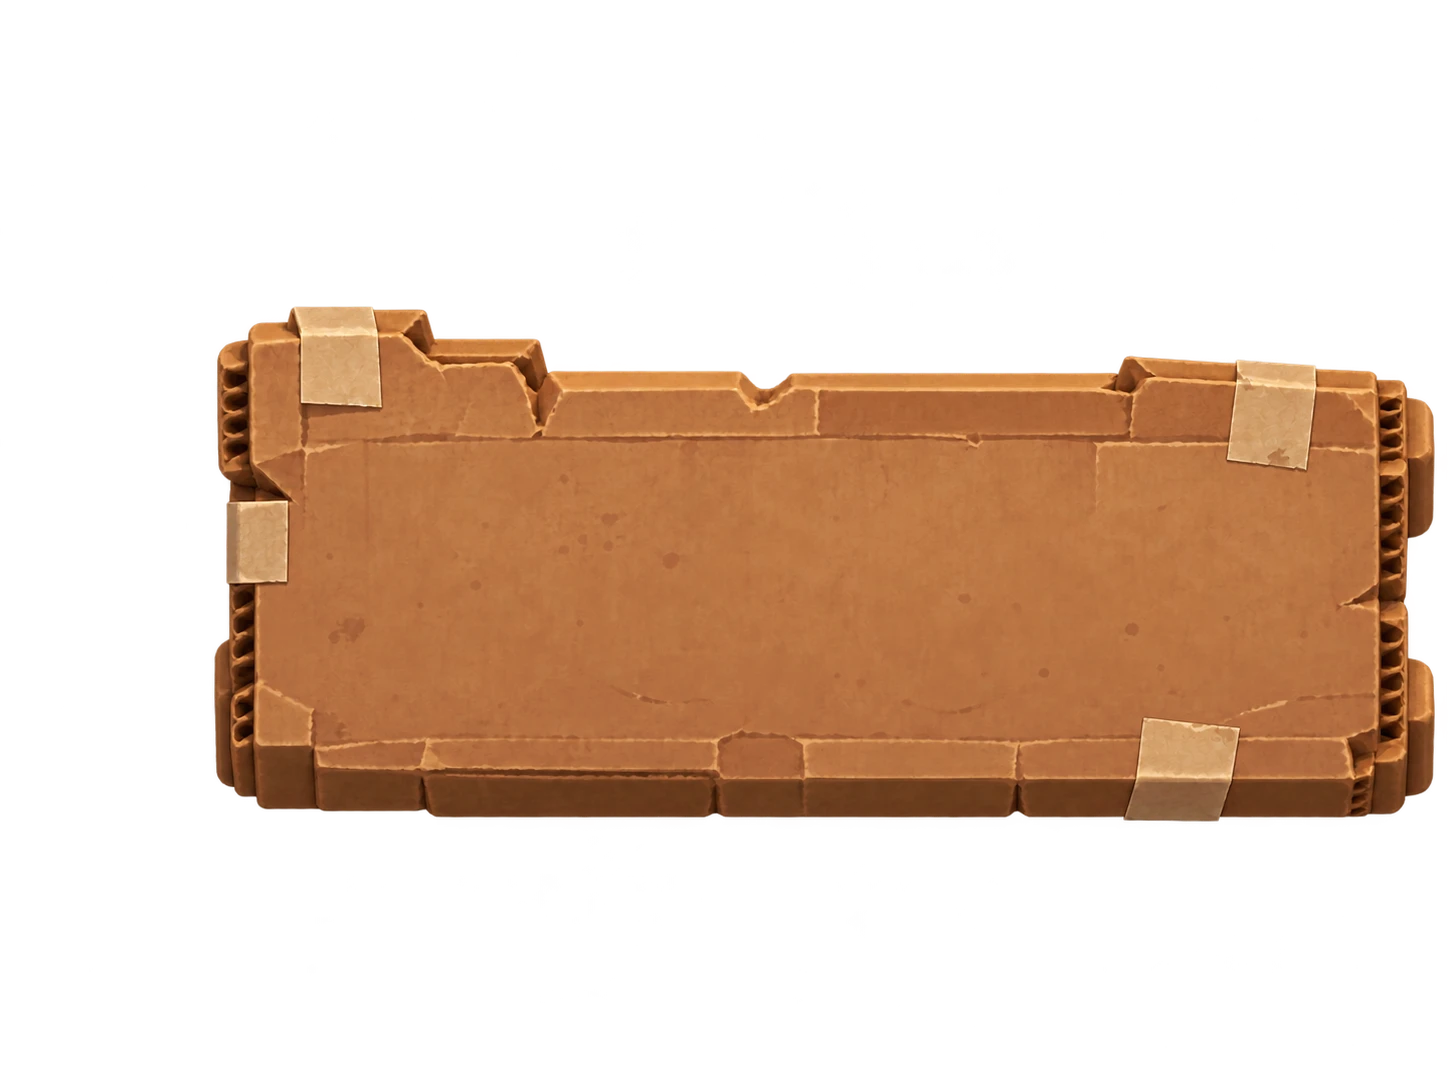
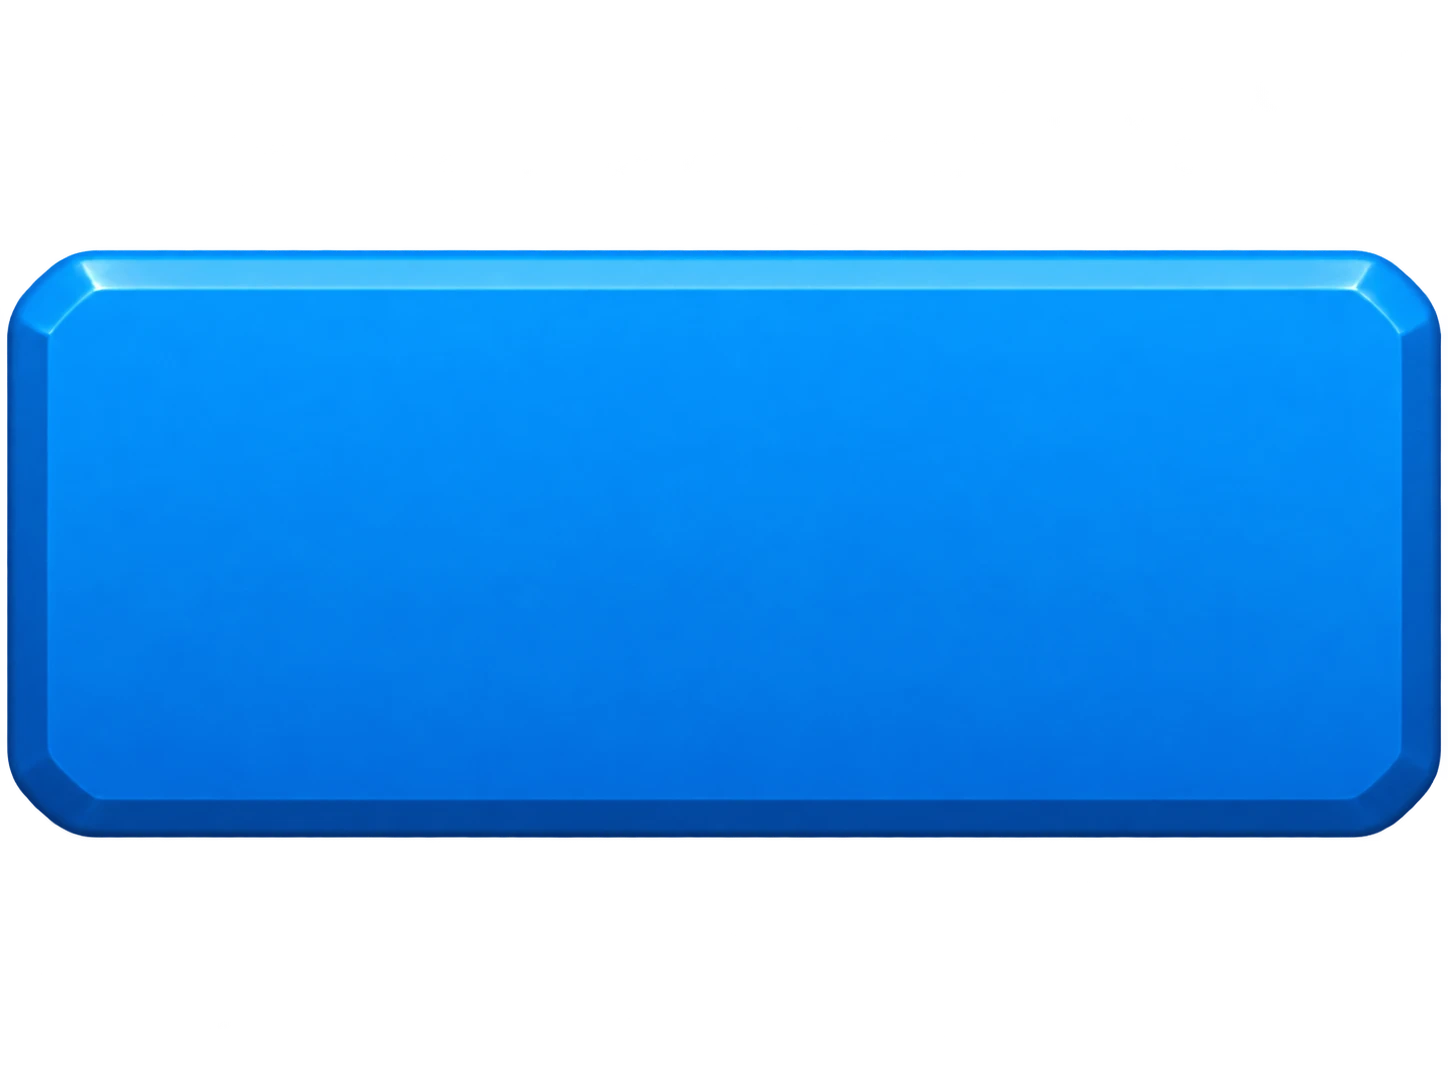
feat(hud): your blue plate behind the cards in hand, replacing the cardboard
Claude-Session: https://claude.ai/code/session_01Vpde5vHZTWw1h4wGUTJzwu

diff --git a/docs/GDD.md b/docs/GDD.md
@@ -36,7 +36,7 @@ The match is the Filipino street game of tagging the enemy base, like the refere
 - Numbers and toggles in `data/rules/game_rules.tres` (`rescue_frees_all`, `dummy_release_time`); box size and place in `data/rules/map_layout.tres` (`jail_size`, `jail_inset`).
 
 ## Controls: tap to move, cards to cast (owner, 2026-10-24)
-- **Hand layout (owner, like Clash Royale's bottom):** the four cards sit on the owner's **cardboard plate** (`assets/ui/hand/hand_plate.webp`) along the bottom, from the screen's right edge to a **column beside it** (116 px), with the ice water bar across under the cards: **the bag overlaps the bar's start, the whole points in big letters just right of it and "Max: 10" under them, its middle level with the bar's bottom outline**. **The three bars (health, stamina, ice water) are rounded rectangles, not pills** (`UiSkin.bar_radius`: a quarter of the bar's height, at most 8 px). **Empty is a flat colour:** dark gray for health and stamina, dark blue for ice water (no sheen or texture). **Outlines are thin** (2 px). **Colours make sense:** health is green (yours), **stamina is blue** (amber when low, red when you run out), **ice water is blue** (a full bar gets a light ice-blue edge, not gold). **The health number** is tiny (`UiMetrics.WORLD_SMALL`, 12 px) and sits at the bar's top left, its middle level with the middle of the bar's top outline. **The stamina bar touches the health bar with no gap** (they share the line between them). "Max: 10" is small (`UiMetrics.WORLD`, 18 px, below the 22 px reading floor on purpose: they are glanced at); "Max: 10" is clearly smaller than the ice water counter (26 px). **The ice water bar fills one segment at a time:** whole points are solid ice water, and the segment that is filling shows its progress in see-through white, like Clash Royale's (like the reference). **Card look (owner, copied from the reference):** a black outline and, just inside it, **one connected polished gloss band** (white along the top, flowing round the smooth top right corner into gray down the right side, then round the bottom right corner into light gray along the bottom, with a soft glow under it and a thin shine on the top right curve; the corners are `RADIUS_M` so the band curves with them); the card's background is its weapon kind's colour; **the ratio is the reference's, height 1.26 times the width** (`CARD_ASPECT`). **The cardboard runs off the screen's right and bottom edges** (its thick sides are cut off, so it looks flat there). **The cards have no names** (the Book has them): the round art fills the card and the **ice water cost sits on its bottom edge, in the middle** (a greyed bag while the bar has not reached it). There is **no health in the tray** (your health is over your kid). **Ice water is shown as the owner's bag picture** (`ice_water.webp`) on every card's cost and at the left end of the bar (no drop). **The column beside the cardboard** (at the left; at the right when left-handed), over the edge of the street, holds the **quick chat button** (online only: no button in offline practice, there is nobody to talk to) (the owner's speech bubble, `chat.webp`) with the **NEXT** label (white with a black outline) and card under it. **Quick chat:** a tap on the button opens a list of six short phrases (*Good luck!*, *Nice one!*, *Oops!*, *Thanks!*, *Help me!*, *Wow!*); picking one shows it in a white bubble over your kid for 2.6 s. Nothing is typed. **Not done yet:** other players do not see your phrase online (it needs a message in the online protocol); today it shows on your own screen only. While you wait in the box the hand, NEXT and the chat button are hidden and the cardboard runs the whole width.
+- **Hand layout (owner, like Clash Royale's bottom):** the four cards sit on the owner's **blue plate** (`assets/ui/hand/hand_plate.webp`) along the bottom, from the screen's right edge to a **column beside it** (116 px), with the ice water bar across under the cards: **the bag overlaps the bar's start, the whole points in big letters just right of it and "Max: 10" under them, its middle level with the bar's bottom outline**. **The three bars (health, stamina, ice water) are rounded rectangles, not pills** (`UiSkin.bar_radius`: a quarter of the bar's height, at most 8 px). **Empty is a flat colour:** dark gray for health and stamina, dark blue for ice water (no sheen or texture). **Outlines are thin** (2 px). **Colours make sense:** health is green (yours), **stamina is blue** (amber when low, red when you run out), **ice water is blue** (a full bar gets a light ice-blue edge, not gold). **The health number** is tiny (`UiMetrics.WORLD_SMALL`, 12 px) and sits at the bar's top left, its middle level with the middle of the bar's top outline. **The stamina bar touches the health bar with no gap** (they share the line between them). "Max: 10" is small (`UiMetrics.WORLD`, 18 px, below the 22 px reading floor on purpose: they are glanced at); "Max: 10" is clearly smaller than the ice water counter (26 px). **The ice water bar fills one segment at a time:** whole points are solid ice water, and the segment that is filling shows its progress in see-through white, like Clash Royale's (like the reference). **Card look (owner, copied from the reference):** a black outline and, just inside it, **one connected polished gloss band** (white along the top, flowing round the smooth top right corner into gray down the right side, then round the bottom right corner into light gray along the bottom, with a soft glow under it and a thin shine on the top right curve; the corners are `RADIUS_M` so the band curves with them); the card's background is its weapon kind's colour; **the ratio is the reference's, height 1.26 times the width** (`CARD_ASPECT`). **The plate runs off the screen's right and bottom edges** (its thick sides are cut off, so it looks flat there). **The cards have no names** (the Book has them): the round art fills the card and the **ice water cost sits on its bottom edge, in the middle** (a greyed bag while the bar has not reached it). There is **no health in the tray** (your health is over your kid). **Ice water is shown as the owner's bag picture** (`ice_water.webp`) on every card's cost and at the left end of the bar (no drop). **The column beside the plate** (at the left; at the right when left-handed), over the edge of the street, holds the **quick chat button** (online only: no button in offline practice, there is nobody to talk to) (the owner's speech bubble, `chat.webp`) with the **NEXT** label (white with a black outline) and card under it. **Quick chat:** a tap on the button opens a list of six short phrases (*Good luck!*, *Nice one!*, *Oops!*, *Thanks!*, *Help me!*, *Wow!*); picking one shows it in a white bubble over your kid for 2.6 s. Nothing is typed. **Not done yet:** other players do not see your phrase online (it needs a message in the online protocol); today it shows on your own screen only. While you wait in the box the hand, NEXT and the chat button are hidden and the plate runs the whole width.
 Owner: "make the bottom part exactly like clash royale then characters movement is tap based like League of Legends or DOTA." This section **replaces** the D-pad, the two weapon buttons, the hand of two with its shuffler, per-weapon cooldowns and the Cancel zone (struck through below where they stood). Numbers and their evidence: [tap to move, elixir, stamina](audits/2026-10-24-tap-move-elixir-stamina.md). All numbers are in `data/rules/game_rules.tres` and `data/weapons/*.tres`; the engineer owns the code shape. Whatever the designer chose without the owner is listed under Open decisions (D26-D35).
 
 ### Moving: tap a point, the kid walks there

diff --git a/docs/ART.md b/docs/ART.md
@@ -141,7 +141,7 @@ Use one readable type scale; the owner removed in-game text-size modes. Wrap or 
 - Street: ambient 0.95 (was 0.82) and shadow blur 2.2 lift the muddy shadow side; the owner's cool sun, its energy and the 0.7 shadow opacity are kept. The cement shader's blotches, stains and cracks are uniforms (`blotch_depth` 0.11, `stain_depth` 0.05, `crack_depth` 0.09). The cool tone was later replaced by the warm Clash Royale light (see above).
 - One outline weight for drawn HUD bars: 3 px navy (`OverheadHud.BAR_OUTLINE`); bars are rounded, 96 x 18 before `bar_scale` (0.75), marked in quarters. The health number is `UiMetrics.WORLD_SMALL` (18 px) at the bar's top left, and the status word (TAGGED, Slowed, EXHAUSTED) is the same size, stacked right above it; there is no circle or diamond beside the bar.
 - Banners (GO!, SCORED, VICTORY / DEFEAT): `RoyaleStyle.GOLD` at `UiMetrics.HERO` in the display letter style (navy outline a sixth of the size, drop shadow a twelfth; was a one-off 18 px outline at 72), shrunk to fit.
-- Card tray: the owner's **cardboard plate** (`assets/ui/hand/hand_plate.webp`, `HandArt`), edge to edge at the bottom, with the four cards on it, starting beside a 116 px column; **ice water is the owner's bag picture** (`ice_water.webp`) on every card's cost and at the bar's left end (no drop any more); **NEXT and the quick chat button stand in the column beside the cardboard** (`chat.webp`, the owner's speech bubble), like Clash Royale's bottom; no health in the tray. D-pad: a raised cross with a darker side, a shaded face lit on its upper and left edges; a pressed arm sinks 5 px and turns gold.
+- Card tray: the owner's **blue plate** (`assets/ui/hand/hand_plate.webp`, `HandArt`), edge to edge at the bottom, with the four cards on it, starting beside a 116 px column; **ice water is the owner's bag picture** (`ice_water.webp`) on every card's cost and at the bar's left end (no drop any more); **NEXT and the quick chat button stand in the column beside the cardboard** (`chat.webp`, the owner's speech bubble), like Clash Royale's bottom; no health in the tray. D-pad: a raised cross with a darker side, a shaded face lit on its upper and left edges; a pressed arm sinks 5 px and turns gold.
 - Buttons: a 12 px lip and a brighter lit top edge; the label's room is unchanged (33 px with a lip, 27 disabled) so no layout moves; pressed sinks the face. Panels: a stronger lit edge (0.4).
 - Kid screen: the kid stands on an oval stage (floor shadow, dark floor, lit rim) with its name at 56 px under it.
 - Briefs for the owner's assets that replace these stand-ins: `docs/art-briefs/README.md`.
